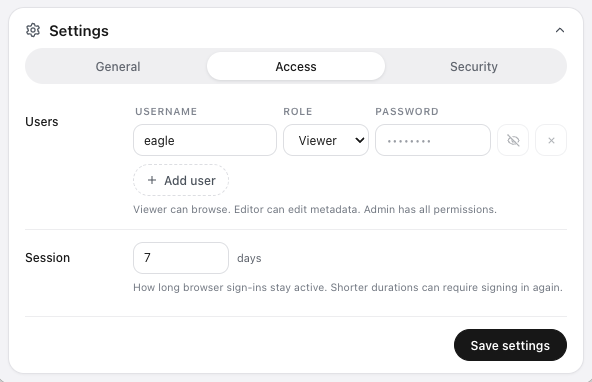
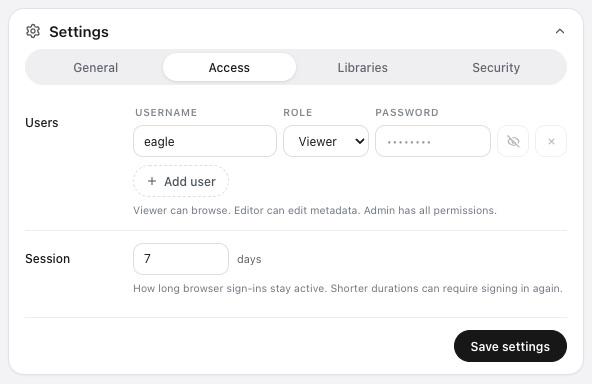
feat: add new server panel libraries screenshot and update README

diff --git a/README.md b/README.md
@@ -112,6 +112,8 @@ Authentication is optional. When password protection is enabled, browser access 
 
 Choose which Eagle libraries the viewer may serve.
 
+![](docs/server_panel_libraries.png)
+
 Eagle can only have one library open, and the viewer serves whichever library that is. Turn on **Share only selected libraries**, check the libraries to share, and save. If you open a different library in Eagle, viewers see the "Media Library is offline" page as soon as the viewer opens, before signing in, until a shared library is open again. The list shows the library open in Eagle and Eagle's recent libraries; use **Reload libraries** to refresh it. Checked libraries are saved by path.
 
 Like other settings, these are locked while the server is running and take effect when the server starts. Viewers can never switch the library open in Eagle.
